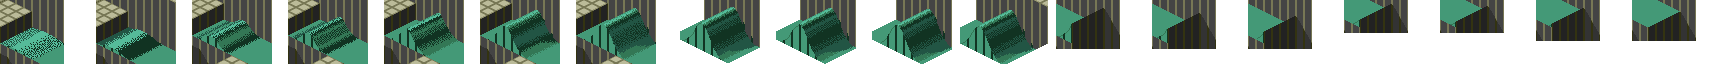
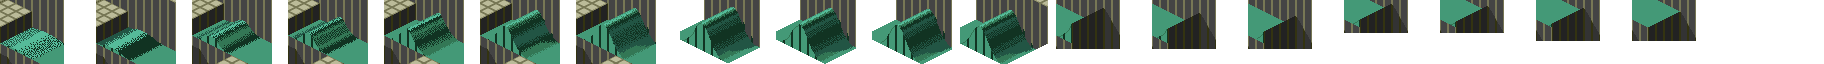
marble: the wave's ending — blit_object clips at the playfield edge (level viewer now masks placements to the map) and op15 frees the region (the wave idles as a blank frame, not a lingering splash)
Claude-Session: https://claude.ai/code/session_01PXKqUrWCKqmxKZMFFqSUaL

diff --git a/site/src/level2d.js b/site/src/level2d.js
@@ -3,7 +3,7 @@
 // of sprite2d objects, seeded pools, cylinder wrap, pan/zoom/pinch camera.
 // Everything comes from the level document; there is no per-game code.
 
-import { Application, Container, Rectangle, Sprite, Texture } from 'pixi.js';
+import { Application, Container, Graphics, Rectangle, Sprite, Texture } from 'pixi.js';
 import { SpriteObject, loadImage } from './sprite2d.js';
 import { mulberry32 } from './data.js';
 
@@ -138,6 +138,15 @@ export async function mount(ctx, doc) {
 
   // ---- placements, pools, spawn --------------------------------------------------
   world.addChild(objLayer);
+  // The playfield clips sprites/blits at its edges (Marble Madness's blit_object
+  // narrows any draw crossing the 288-px right edge), so a path-animated piece
+  // sweeping into the border must clip against the map, not overhang into the
+  // void. Wrap-scrolling maps are exempt: their pieces may straddle the seam.
+  if (tm.wrap !== 'x') {
+    const clip = new Graphics().rect(0, 0, map.widthPx, map.heightPx).fill(0xffffff);
+    world.addChild(clip);
+    objLayer.mask = clip;
+  }
   const objects = new Map(); // id -> SpriteObject (loaded on demand)
   const getObj = async (id) => {
     if (!objects.has(id)) objects.set(id, SpriteObject.load(game, id));

diff --git a/games/marble-madness-amiga/extract/cmd/webexport/overlay.go b/games/marble-madness-amiga/extract/cmd/webexport/overlay.go
@@ -427,12 +427,10 @@ func trackOverlays(im []byte, nCells, mapRows int) ([]overlay, []swapAnim) {
 	if p8 := ou32(im, dyn+8); p8 != 0 && int(p8)+20 < len(im) &&
 		ou16(im, p8) == 0 && os16(im, p8+8) == 1 {
 		if ovl, _ := scanScript(im, 90, p8, p8+0x180, base, nCells, mapRows, nil); ovl != nil && len(ovl.Steps) >= 3 {
-			// the engine frees the region after op15 (the wave is gone until
-			// the next marble triggers it); the viewer loops, so rest on the
-			// final calm-water frame before replaying
-			last := ovl.Steps[len(ovl.Steps)-1]
-			last.Hold, last.DX, last.DY = 60, 0, 0
-			ovl.Steps = append(ovl.Steps, last)
+			// op15 frees the region: after the collapse the wave is GONE until
+			// the next marble triggers it. The viewer loops, so idle on a blank
+			// frame — the water is plain tilemap again — before replaying.
+			ovl.Steps = append(ovl.Steps, step{Cell: -1, Hold: 60})
 			out = append(out, *ovl)
 		}
 	}

diff --git a/games/marble-madness-amiga/marble-madness-amiga.md b/games/marble-madness-amiga/marble-madness-amiga.md
@@ -1724,7 +1724,11 @@ by `$9BA − slopeHdr+$10`; op14 SET-VEL stores its operands raw for these (and
 `<<8` into the fixed-point ref for `dur≠1` regions — the earlier "`<<8` when
 dur==1" note was inverted), and op16 MOVE accumulates them into the drift —
 Intermediate's WAVE is precisely this: anchor (9,98), velocity (8,−4), a
-19-step op4 loop. The **Aerial obstacle actors** (`$1D3EC`) are two blit
+19-step op4 loop; its last steps push into the playfield border, where
+`blit_object` clips (width-words narrowed to the $12-word row, `BLTALWM=$FF00`
+masking the partial word), and op15 then frees the region — the wave crashes
+over the channel-end waterfall, is cut by the screen edge, and vanishes until
+the next marble triggers it. The **Aerial obstacle actors** (`$1D3EC`) are two blit
 layers: the walkway base record always at `+$A/+$C`, and the pop-up animation
 at `x+(v10−v0E)·8, y+(v10+v0E)·4`, where the activation RNG rolls the variant
 and its spot (`v0E,v10` = 0,rnd4 / rnd3,rnd2 / 0,rnd2 / 0,rnd2 per variant) —
